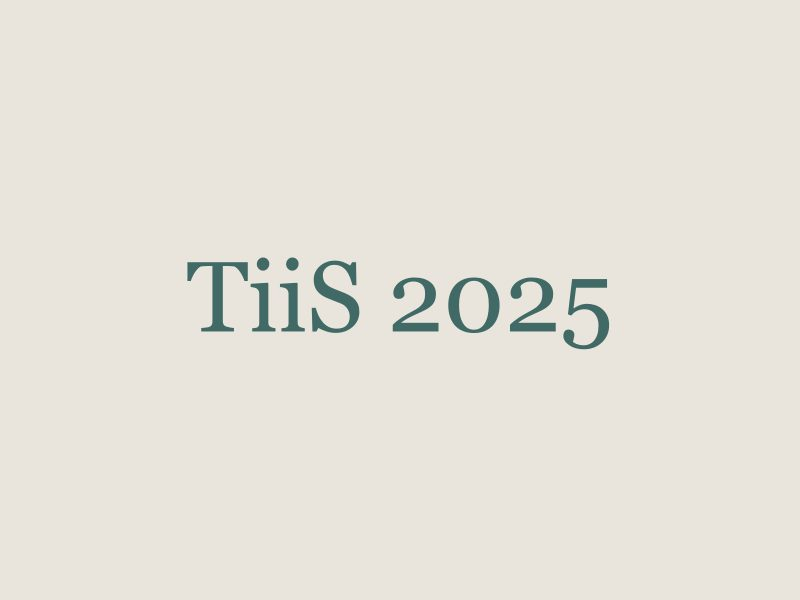
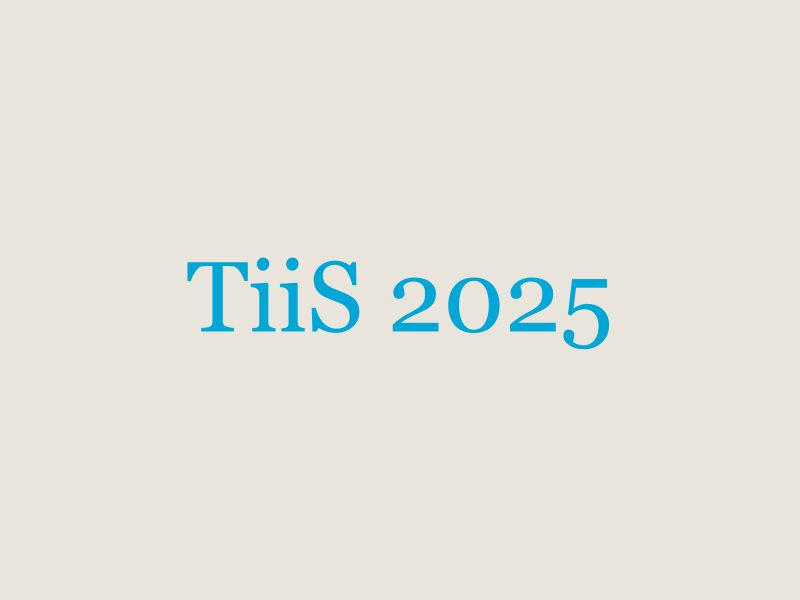
some more styling updates, text removal, add manuels image

Changed region(s): [[0.2188, 0.42, 0.7812, 0.6]]

diff --git a/src/site.config.ts b/src/site.config.ts
@@ -10,7 +10,7 @@ export const site = {
   /** Short name used in the header wordmark and "Page · Short" titles. */
   shortName: 'DIALOG',
   /** Browser tab title on the homepage and suffix on other pages. */
-  title: 'DIALOG GROUP',
+  title: 'DIALOG Group',
   /** One sentence shown under the group photo and used as the default meta description. */
   tagline: 'A research group studying dialogue, interaction, and intelligent systems that collaborate with people.',
   /** Two or three sentences of introduction shown on the homepage. Plain text or simple HTML. */

diff --git a/src/content/people/manuel-valle-torre.md b/src/content/people/manuel-valle-torre.md
@@ -2,6 +2,7 @@
 name: Manuel Valle Torre
 role: alumni
 title: PhD alumnus
+photo: ../../assets/people/manuel.jpg
 interests:
   - Learning analytics
   - AI in education
